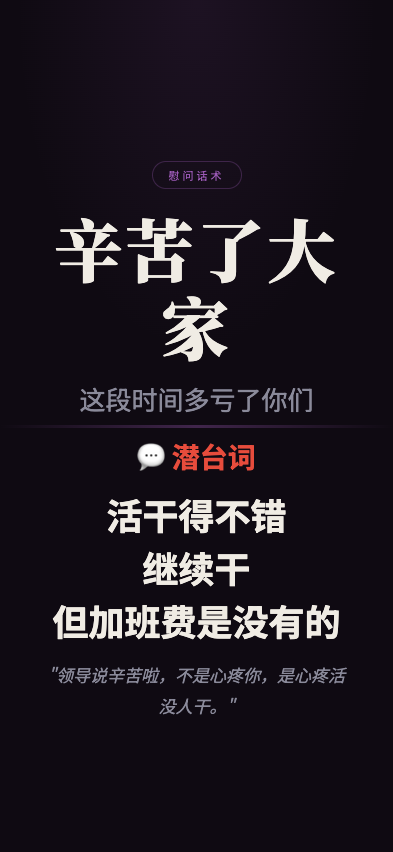
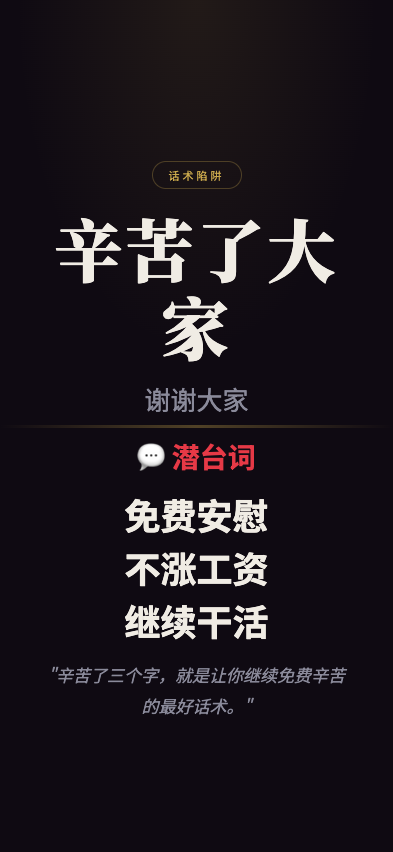
feat: 职场生存法则 screenshot - xinkuledajia

Changed region(s): [[0.1221, 0.5798, 0.8855, 0.8545], [0.1832, 0.4577, 0.7939, 0.5188], [0.4275, 0.1831, 0.5802, 0.2136]]

diff --git a/wuliao-tools/tools/biz-speak/scenes/xinkuledajia.html b/wuliao-tools/tools/biz-speak/scenes/xinkuledajia.html
@@ -10,8 +10,8 @@
     --bg: #0f0a12;
     --text: #f0ece4;
     --text-dim: #8a8a9a;
-    --gold: #9b59b6;
-    --red: #e74c3c;
+    --gold: #c9a84c;
+    --red: #e63946;
   }
   * { margin:0; padding:0; box-sizing:border-box; }
   html, body { width:100%; height:100%; overflow:hidden; }
@@ -24,11 +24,11 @@
   }
   body::before {
     content:''; position:absolute; top:0; left:0; right:0; height:45%;
-    background:radial-gradient(ellipse at 50% 0%, rgba(155,89,182,0.1) 0%, transparent 65%);
+    background:radial-gradient(ellipse at 50% 0%, rgba(201,168,76,0.1) 0%, transparent 65%);
     pointer-events:none; z-index:0;
   }
   .top { flex:1; display:flex; flex-direction:column; align-items:center; justify-content:flex-end; padding:4px 28px 8px; position:relative; z-index:1; }
-  .tag { font-size:11px; letter-spacing:3px; color:var(--gold); border:1px solid rgba(155,89,182,0.3); padding:5px 16px; border-radius:50px; margin-bottom:20px; }
+  .tag { font-size:11px; letter-spacing:3px; color:var(--gold); border:1px solid rgba(201,168,76,0.3); padding:5px 16px; border-radius:50px; margin-bottom:20px; }
   .main-title { font-family:'Noto Serif SC'; font-size:68px; font-weight:900; text-align:center; line-height:1.15; letter-spacing:3px; min-width:0; overflow-wrap:break-word; max-width:92%; }
   .sub-title { font-size:26px; color:var(--text-dim); text-align:center; margin-top:14px; }
   .divider { width:100%; height:3px; background:linear-gradient(90deg,transparent,var(--gold),transparent); opacity:0.35; flex-shrink:0; position:relative; z-index:1; }
@@ -41,19 +41,19 @@
 </head>
 <body>
   <div class="top">
-    <div class="tag">慰问话术</div>
+    <div class="tag">话术陷阱</div>
     <div class="main-title">辛苦了大家</div>
-    <div class="sub-title">这段时间多亏了你们</div>
+    <div class="sub-title">谢谢大家</div>
   </div>
   <div class="divider"></div>
   <div class="bottom">
     <div class="truth-label">💬 潜台词</div>
     <div class="truth-lines">
-      <div class="truth-line">活干得不错</div>
-      <div class="truth-line">继续干</div>
-      <div class="truth-line">但加班费是没有的</div>
+      <div class="truth-line">免费安慰</div>
+      <div class="truth-line">不涨工资</div>
+      <div class="truth-line">继续干活</div>
     </div>
-    <div class="quote">"领导说辛苦啦，不是心疼你，是心疼活没人干。"</div>
+    <div class="quote">"辛苦了三个字，就是让你继续免费辛苦的最好话术。"</div>
   </div>
 </body>
 </html>
